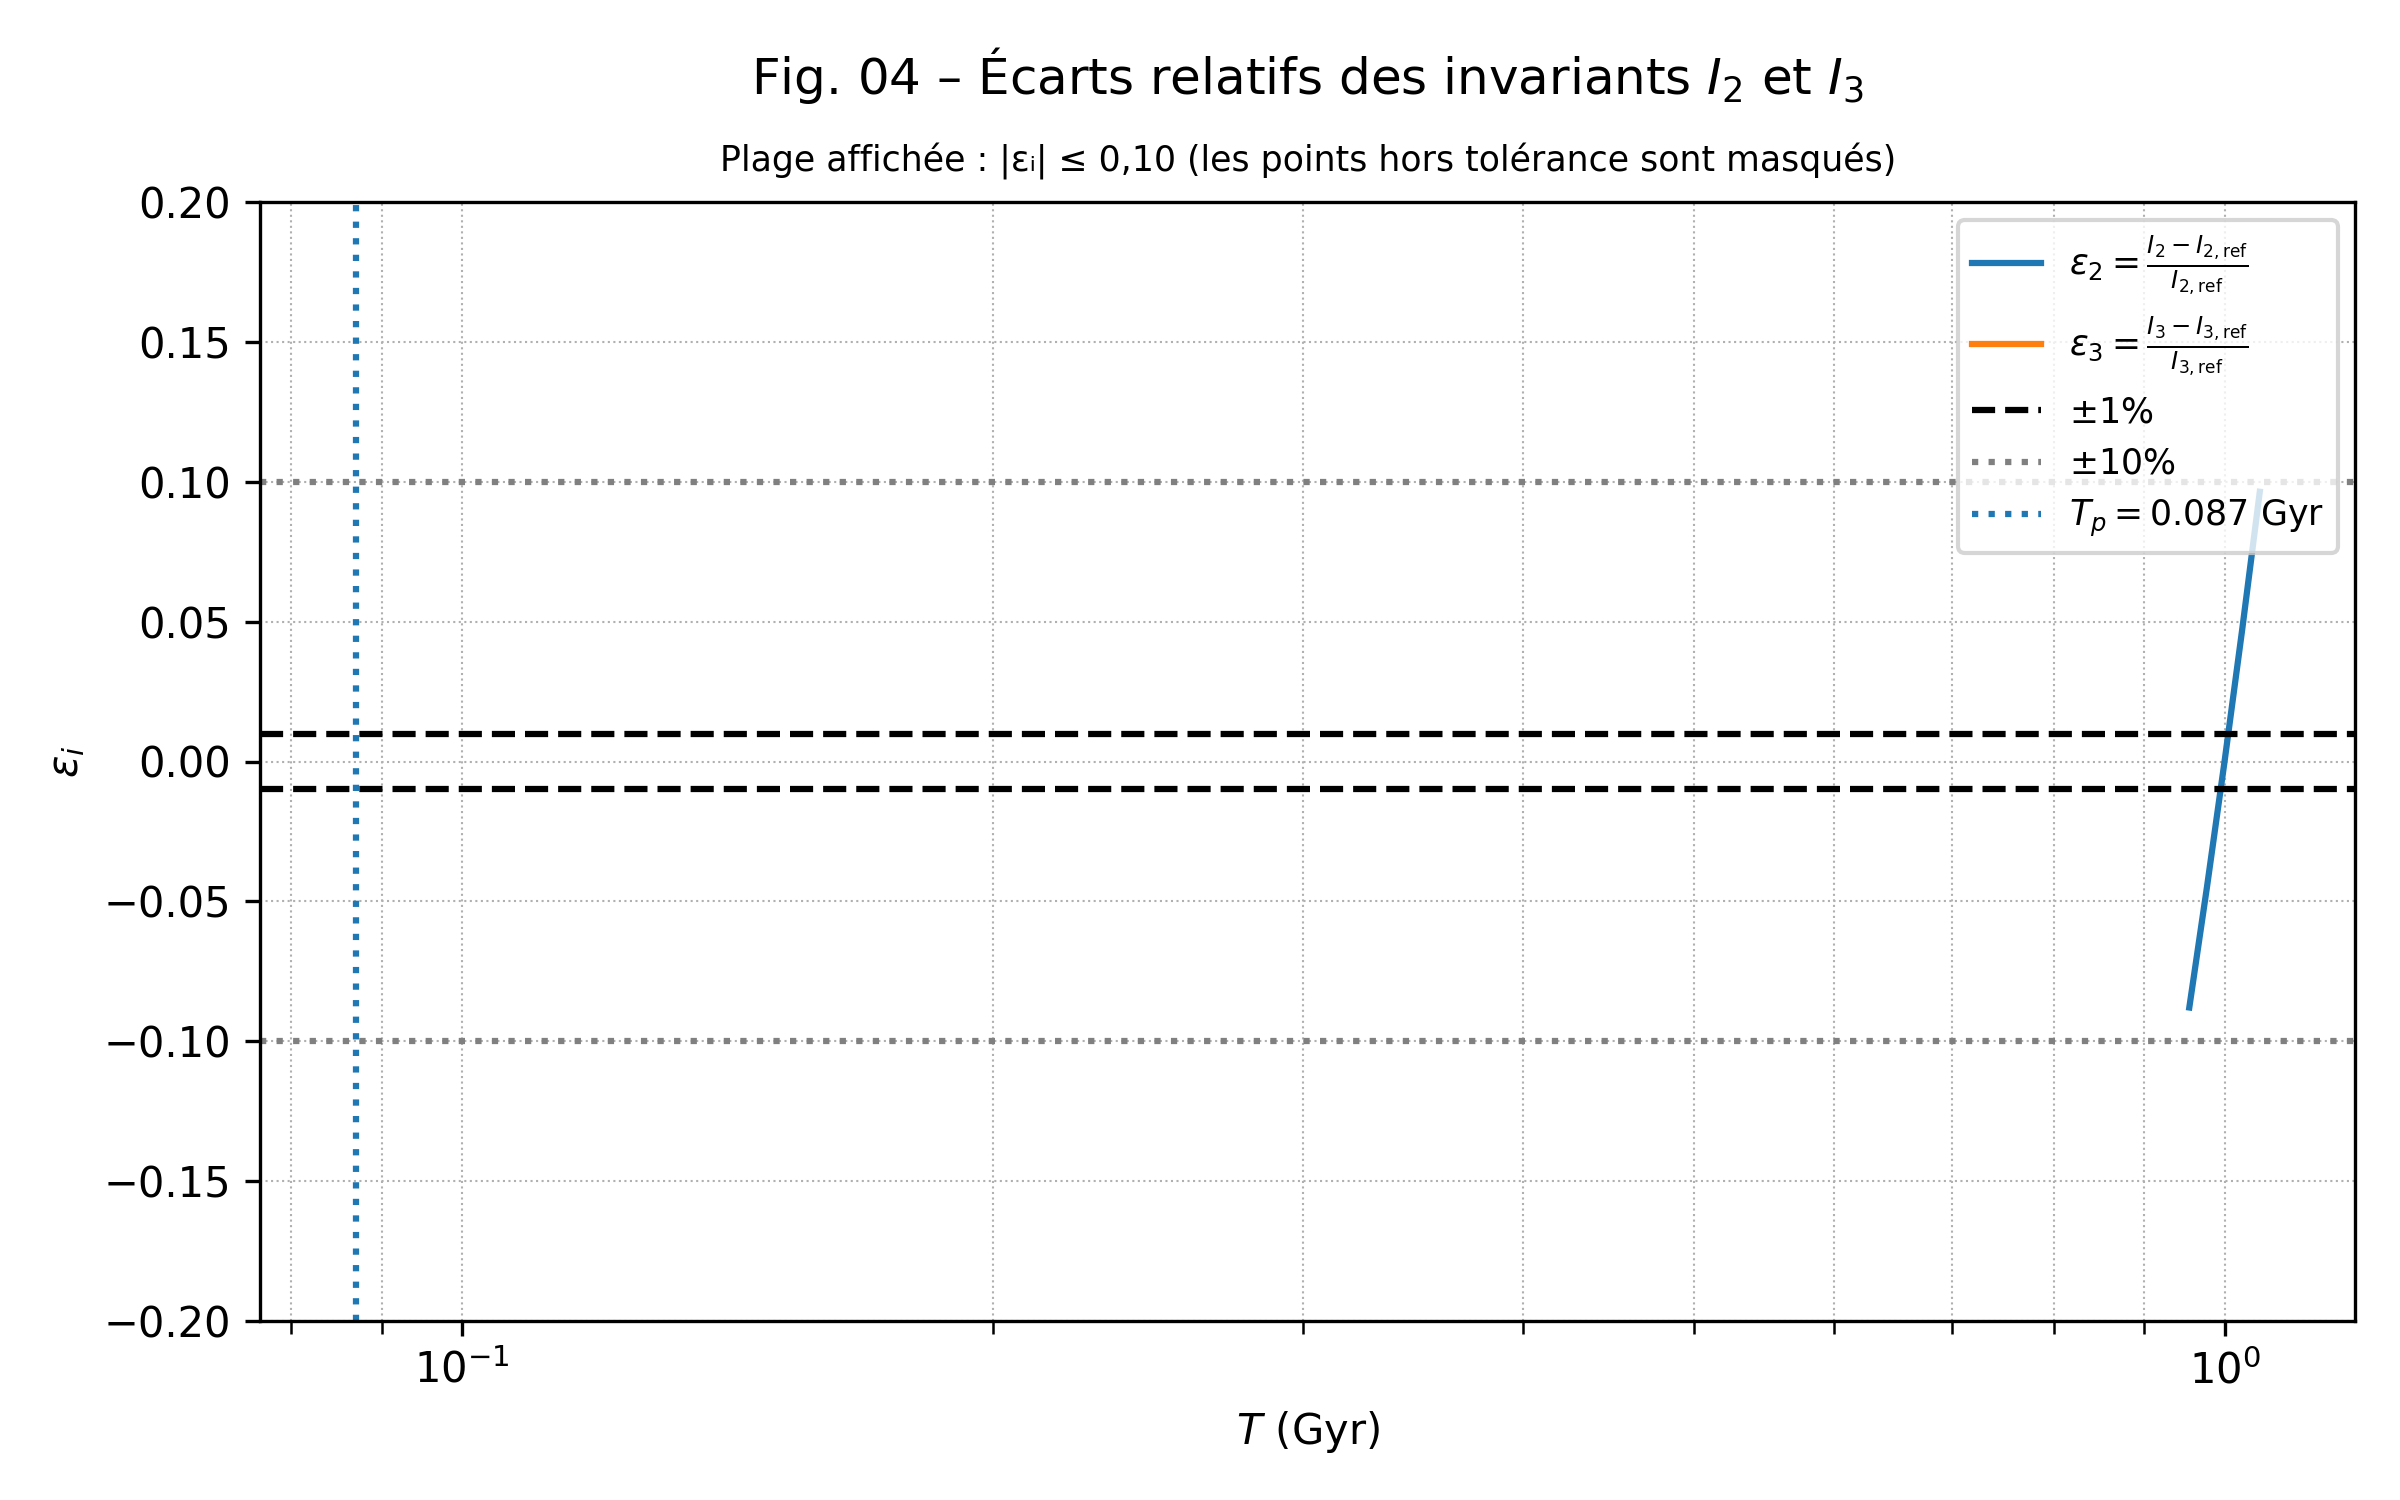
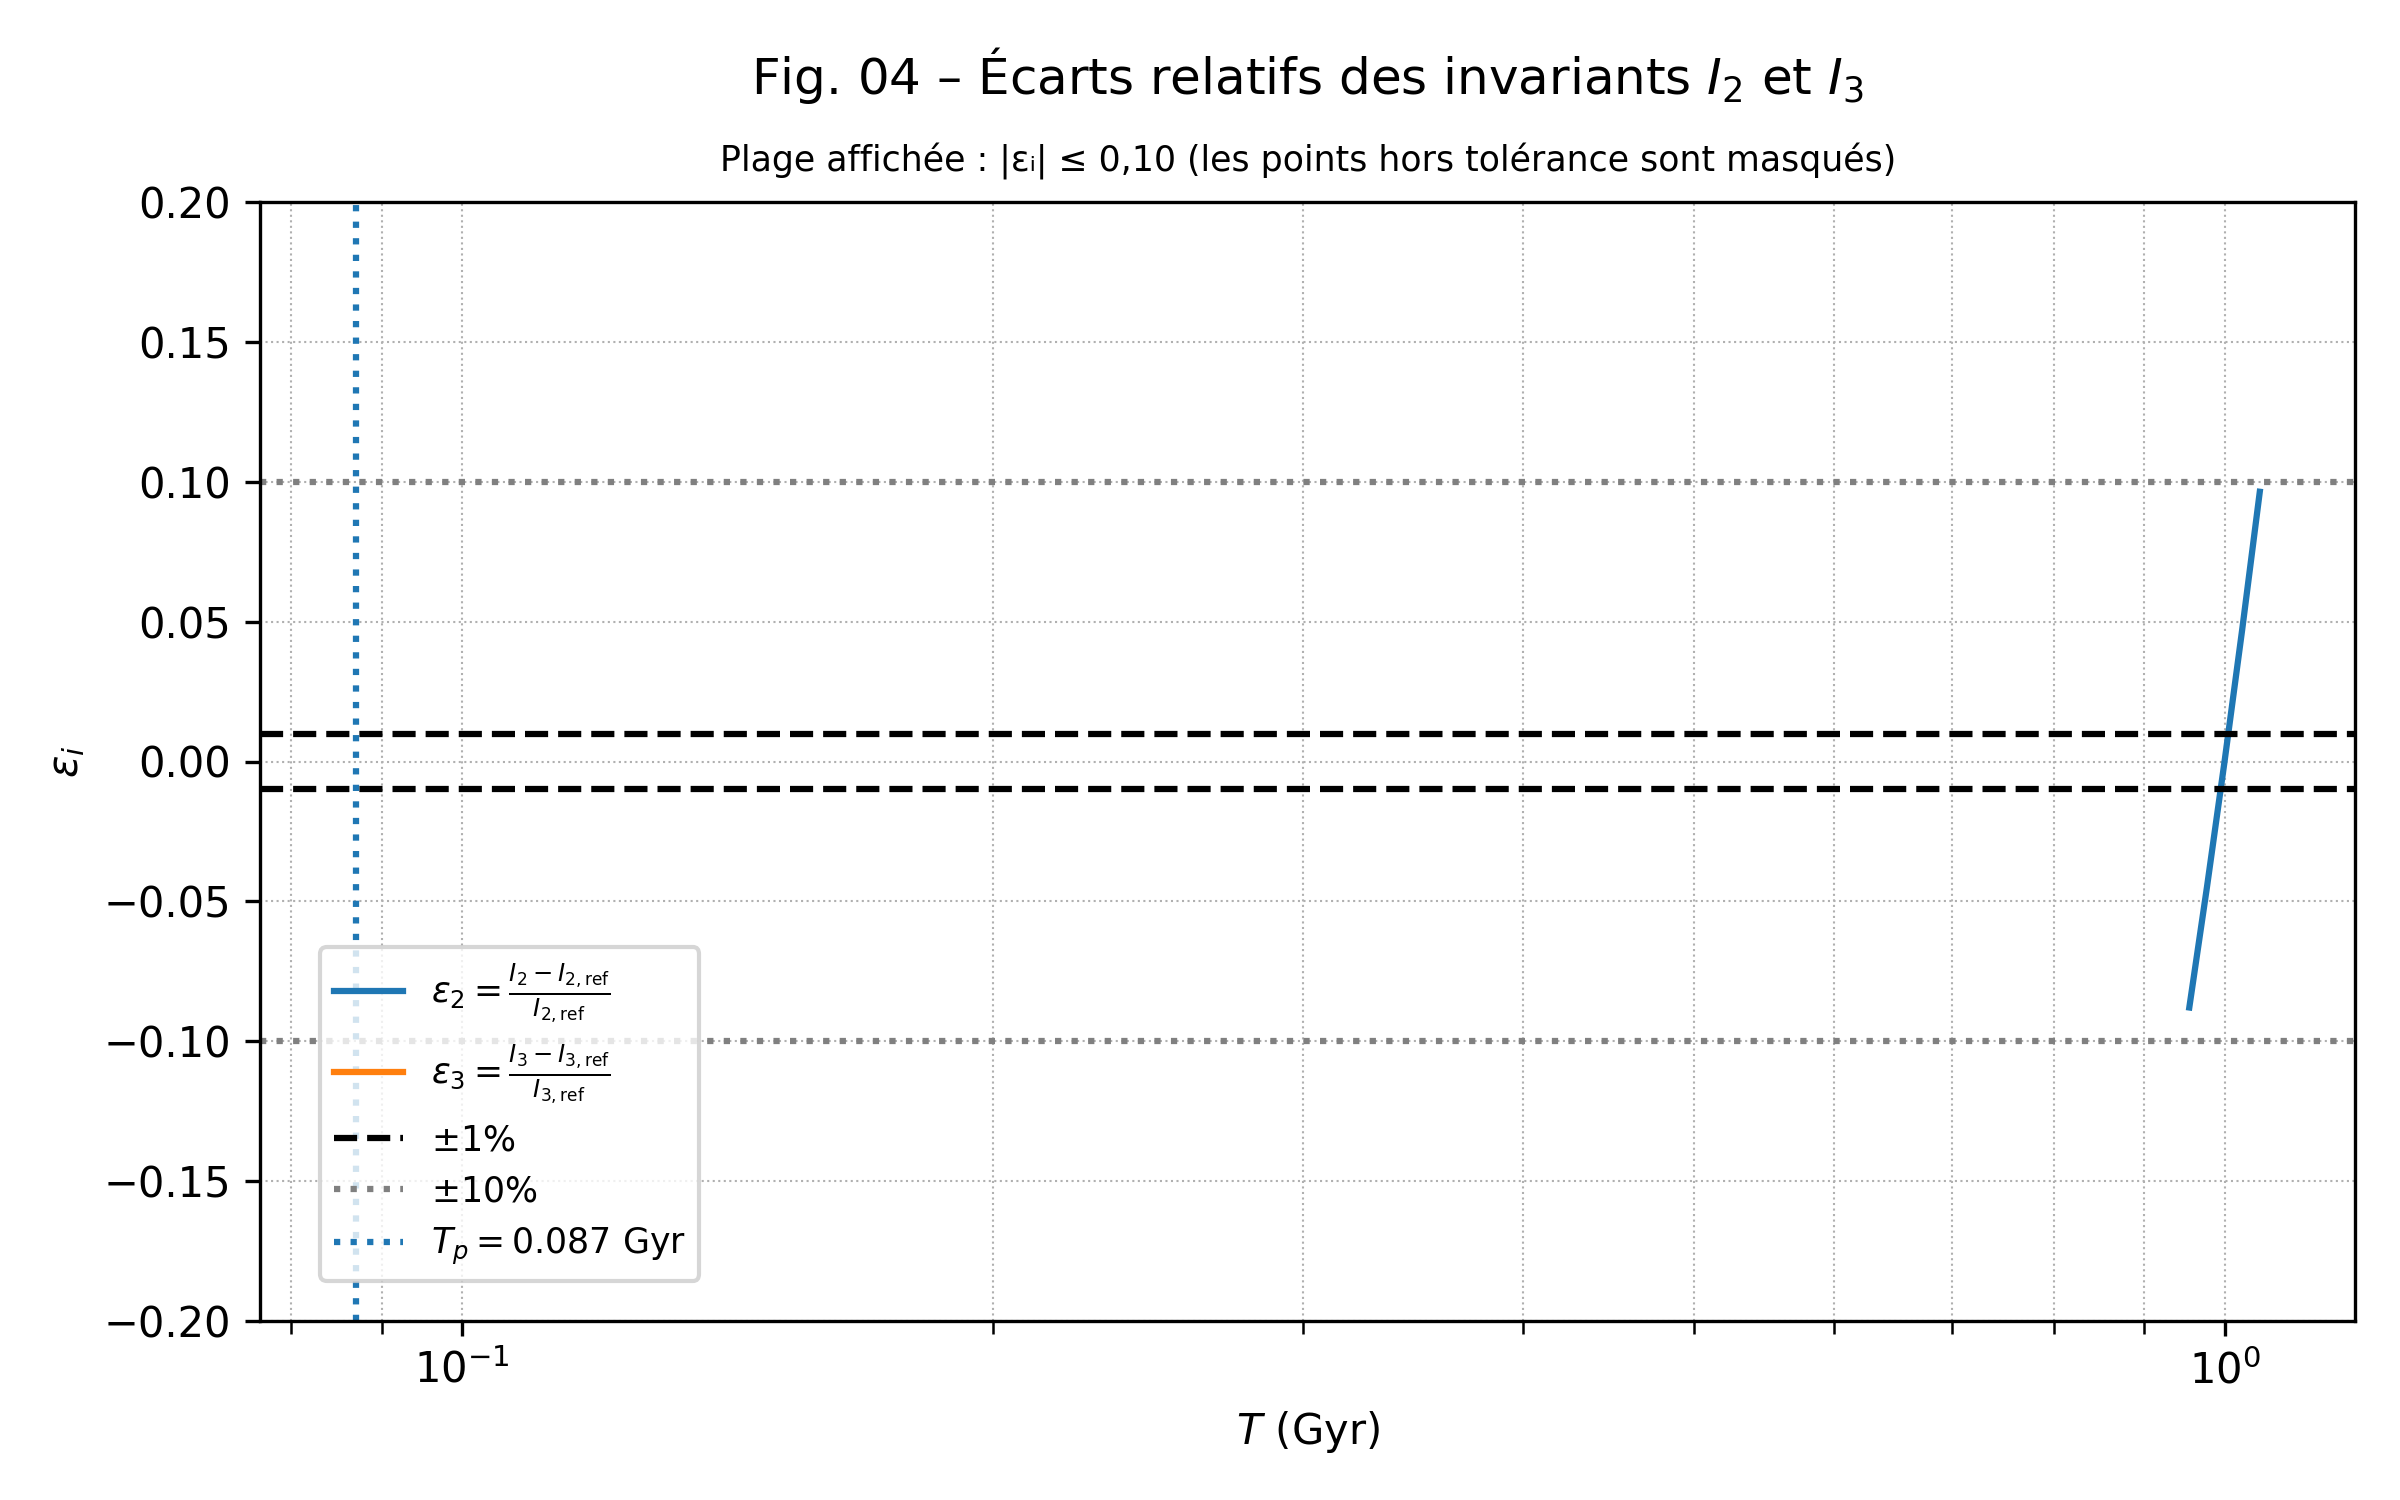
fix(viz): improve CH04 Fig04 clarity (legend position, z-order, and label fix)

diff --git a/zz-scripts/chapter04/plot_fig04_relative_deviations.py b/zz-scripts/chapter04/plot_fig04_relative_deviations.py
@@ -89,14 +89,25 @@ def main() -> None:
     fig, ax = plt.subplots(figsize=(8, 5), dpi=300)
     ax.set_xscale("log")
 
-    ax.plot(T, eps2_plot, label=r"$\varepsilon_2=\frac{I_2-I_{2,\mathrm{ref}}}{I_{2,\mathrm{ref}}}$")
-    ax.plot(T, eps3_plot, label=r"$\varepsilon_3=\frac{I_3-I_{3,\mathrm{ref}}}{I_{3,\mathrm{ref}}}$")
+    # Keep eps3 above to avoid visual gaps when NaNs are masked
+    ax.plot(
+        T,
+        eps2_plot,
+        label=r"$\varepsilon_2=\frac{I_2-I_{2,\mathrm{ref}}}{I_{2,\mathrm{ref}}}$",
+        zorder=2,
+    )
+    ax.plot(
+        T,
+        eps3_plot,
+        label=r"$\varepsilon_3=\frac{I_3-I_{3,\mathrm{ref}}}{I_{3,\mathrm{ref}}}$",
+        zorder=3,
+    )
 
     ax.axhline(0.01, color="k", linestyle="--", label=r"$\pm1\%$")
     ax.axhline(-0.01, color="k", linestyle="--")
     ax.axhline(0.10, color="gray", linestyle=":", label=r"$\pm10\%$")
     ax.axhline(-0.10, color="gray", linestyle=":")
-    ax.axvline(Tp, linestyle=":", label=rf"$T_p={Tp:.3f}\ \mathrm{{Gyr}}$")
+    ax.axvline(Tp, linestyle=":", label=rf"$T_p = {Tp:.3f}\ \mathrm{{Gyr}}$")
 
     ax.set_ylim(-0.2, 0.2)
     ax.xaxis.set_minor_locator(LogLocator(base=10.0, subs=range(1, 10)))
@@ -116,7 +127,7 @@ def main() -> None:
     )
 
     ax.grid(True, which="both", linestyle=":", linewidth=0.5, zorder=0)
-    ax.legend(fontsize="small", loc="upper right")
+    ax.legend(fontsize="small", loc="lower left", bbox_to_anchor=(0.02, 0.02))
 
     fig.tight_layout()
     safe_save(OUT_FIG, fig=fig, dpi=300)
